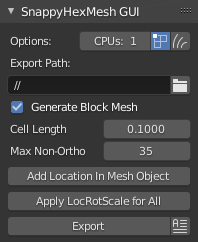
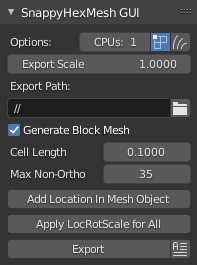
Update Export Scale option and versions in docs

diff --git a/docs/snappy_gui.rst b/docs/snappy_gui.rst
@@ -23,7 +23,7 @@ users to use Blender as a CFD pre-processing tool. The aim is to
 The creation of OpenFOAM dictionary files is based on string
 replacements using template files located in the
 add-on's *skel* directory. The add-on is meant to work on
-latest releases of `Blender`_ 2.8 series and
+latest stable and LTS releases of `Blender`_ and
 `OpenFOAM Foundation <https://openfoam.org/>`_ version of OpenFOAM.
 
 
@@ -52,7 +52,7 @@ Installation and Start-up
 * It is suggested to use newest version of Blender, 
   `download Blender here <https://www.blender.org/download/>`_.
 * Add-on code is available at https://github.com/tkeskita/snappyhexmesh_gui.
-  To download add-on from Github, Select "Clone or download", then
+  To download add-on from Github, Select "Code", then
   "Download ZIP".
 * Start Blender, go to "Edit" --> "Preferences" --> "Add-ons" --> "Install"
   --> open the add-on zip file.
@@ -114,6 +114,8 @@ information.
     (*scotch* decomposition method is the default for *decomposePar*)
   * Do Snapping Phase
   * Do Layer Addition Phase
+  * *Export Scale* is an optional scaling factor for STL geometry
+    files and convertToMeters in blockMeshDict
 
 * *Export path* defines path name where the add-on creates the OpenFOAM
   case files when the Export tool is run. The default value "//" means

diff --git a/README.md b/README.md
@@ -20,9 +20,10 @@ users to use Blender as a CFD pre-processing tool. The aim is to
 
 The creation of OpenFOAM dictionary files is based on string
 replacements using template files located in the
-add-on's *skel* directory. The add-on is tested with
-[Blender 2.82](https://www.blender.org) and
-[OpenFOAM Foundation](https://openfoam.org/) version 7 of OpenFOAM.
+add-on's *skel* directory. The add-on is meant to work with
+latest stable (2.90 or later) and LTS (2.83) versions of
+[Blender](https://www.blender.org) and
+[OpenFOAM Foundation](https://openfoam.org/) version of OpenFOAM.
 
 ## Documentation
 
